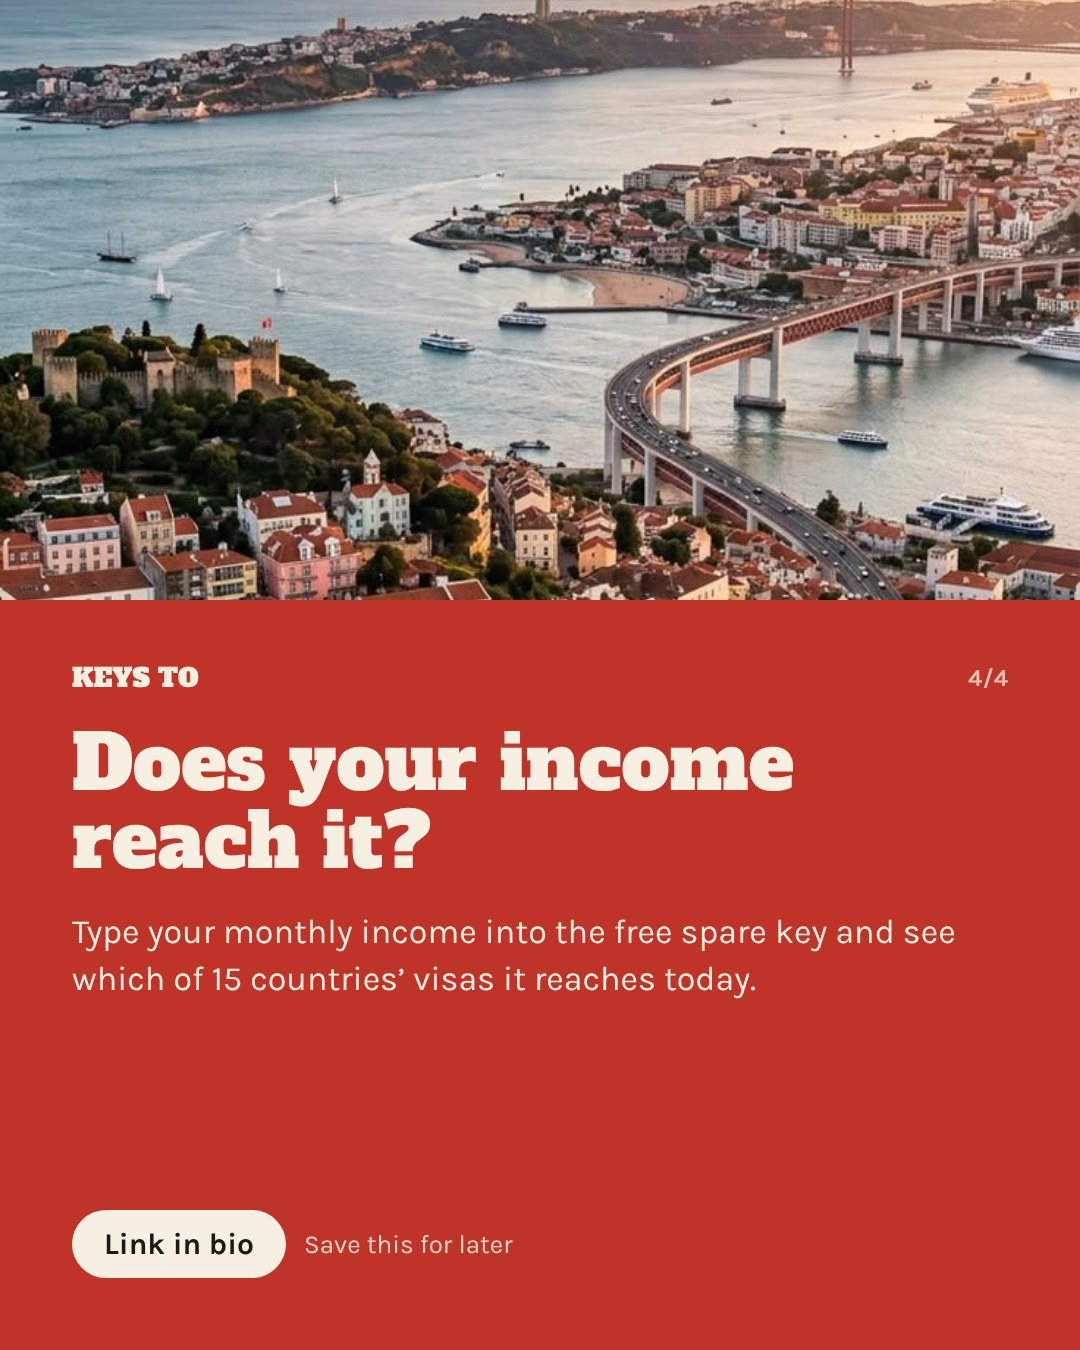
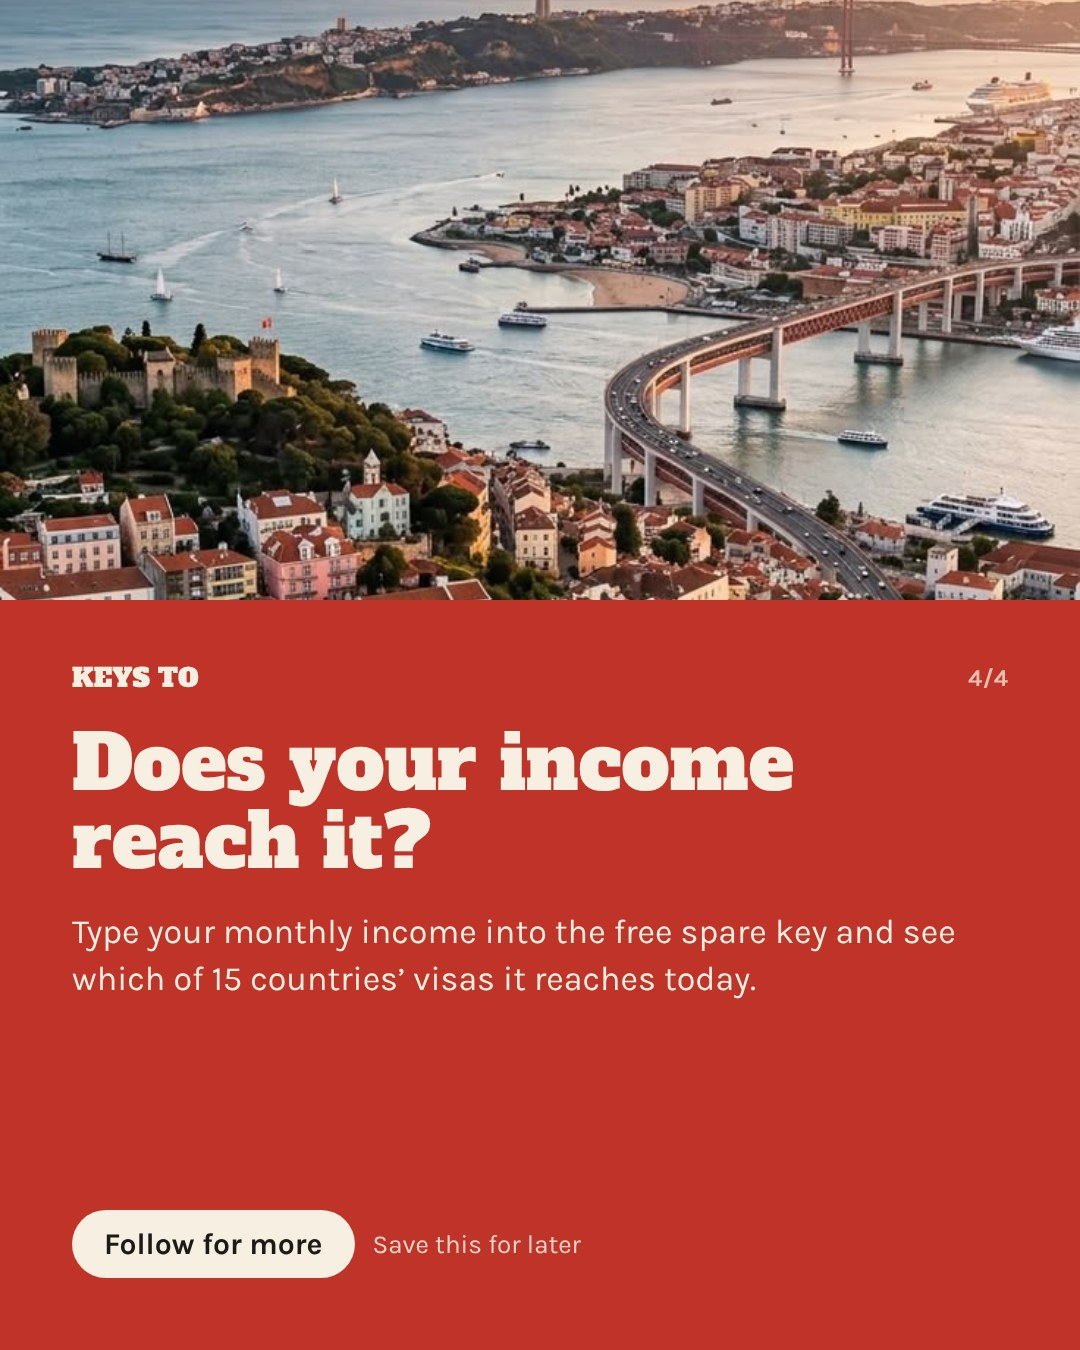
Keys to week one: no link-in-bio CTAs (Instagram link restriction)
Claude-Session: https://claude.ai/code/session_01QYx92m5UsrX1uDiybuJVUm

Changed region(s): [[0.0917, 0.8711, 0.55, 0.9644]]

diff --git a/keys-to/posts/_page.html b/keys-to/posts/_page.html
@@ -1,0 +1,22 @@
+<!doctype html><html><head><meta charset="utf-8"><style>
+@font-face{font-family:Slab;src:url(file:///home/claude/keys/site/node_modules/@fontsource/alfa-slab-one/files/alfa-slab-one-latin-400-normal.woff2) format("woff2")}
+@font-face{font-family:Karla;font-weight:400;src:url(file:///home/claude/keys/site/node_modules/@fontsource/karla/files/karla-latin-400-normal.woff2) format("woff2")}
+@font-face{font-family:Karla;font-weight:700;src:url(file:///home/claude/keys/site/node_modules/@fontsource/karla/files/karla-latin-700-normal.woff2) format("woff2")}
+*{box-sizing:border-box}html,body{margin:0}
+body{font-family:Karla,sans-serif;-webkit-font-smoothing:antialiased}
+.slab{font-family:Slab,Georgia,serif;font-weight:400}
+.f{position:relative;overflow:hidden}
+.ph{position:absolute;inset:0;background-size:cover}
+.scrim{position:absolute;inset:0;background:linear-gradient(180deg,rgba(27,26,23,.25) 0%,rgba(27,26,23,0) 22%,rgba(27,26,23,0) 38%,rgba(27,26,23,.86) 100%)}
+.chip{display:inline-flex;align-items:center;gap:12px;background:#F6EFE2;color:#1B1A17;border-radius:999px;padding:12px 22px 12px 16px}
+.chip span{font-family:Slab,Georgia,serif;font-size:24px;letter-spacing:.02em}
+.count{font-weight:700;font-size:24px}
+h1,h2,p{margin:0}
+</style></head><body><div class="f" style="width:1000px;height:1500px;background:#F6F1E8;color:#1B1A17;display:flex;flex-direction:column">
+<div style="height:960px;flex-shrink:0;position:relative"><div class="ph" style="background-image:url(file:///tmp/claude-0/-home-claude/d3d6431a-32d9-571d-bdd9-f64bb76460c8/scratchpad/aem/keys-to/italy-3.jpg);background-position:center 45%"></div></div>
+<div style="height:16px;background:#E3B23C"></div>
+<div style="padding:56px 64px 60px;display:flex;flex-direction:column;gap:22px;flex-grow:1">
+<h2 class="slab" style="font-size:70px;line-height:1.04">Italian citizenship by descent: what changed.</h2>
+<p style="font-size:30px;line-height:1.4;color:#4A453D">Law 74/2025, upheld on 12 March 2026. Check in two minutes if you still qualify.</p>
+<div style="margin-top:auto;display:flex;justify-content:space-between;align-items:center;gap:16px"><span class="slab" style="font-size:24px;color:#BF3329">KEYS TO ITALY</span><span style="font-size:22px;font-weight:700;color:#6B655B">keys-to.vercel.app</span></div>
+</div></div></body></html>
